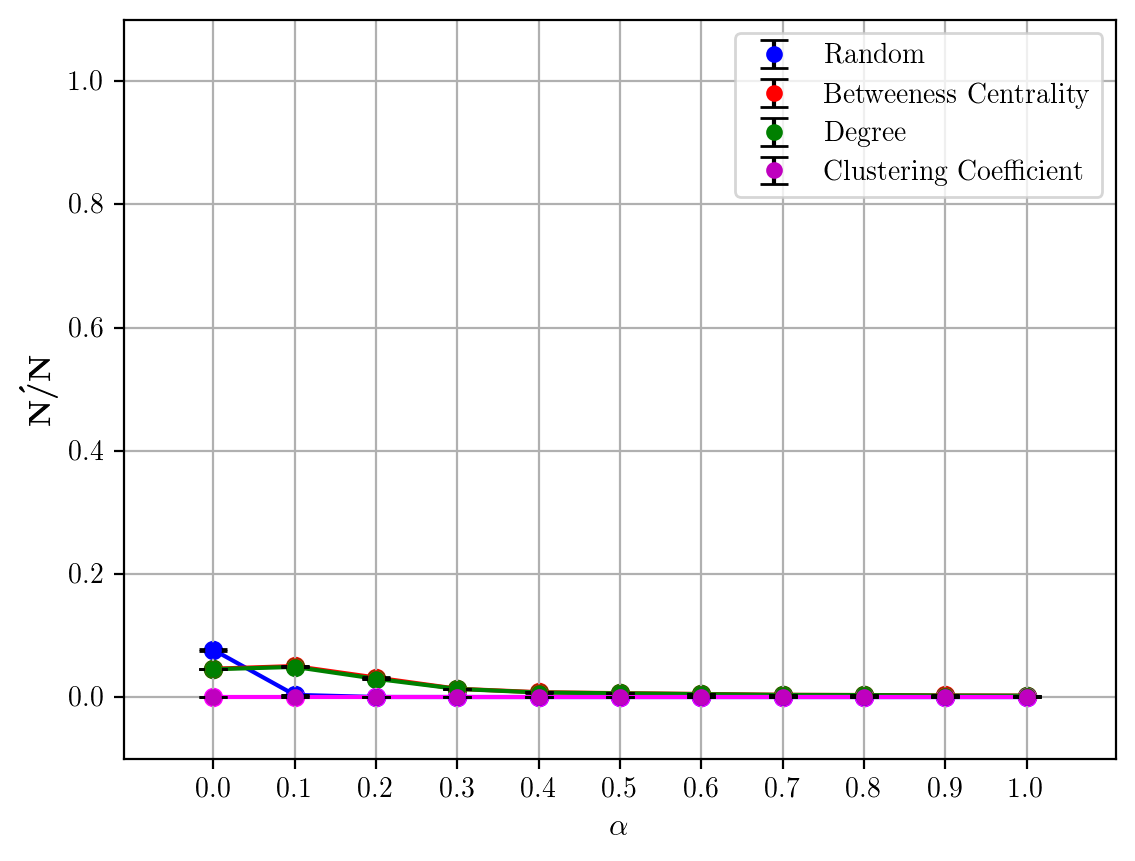
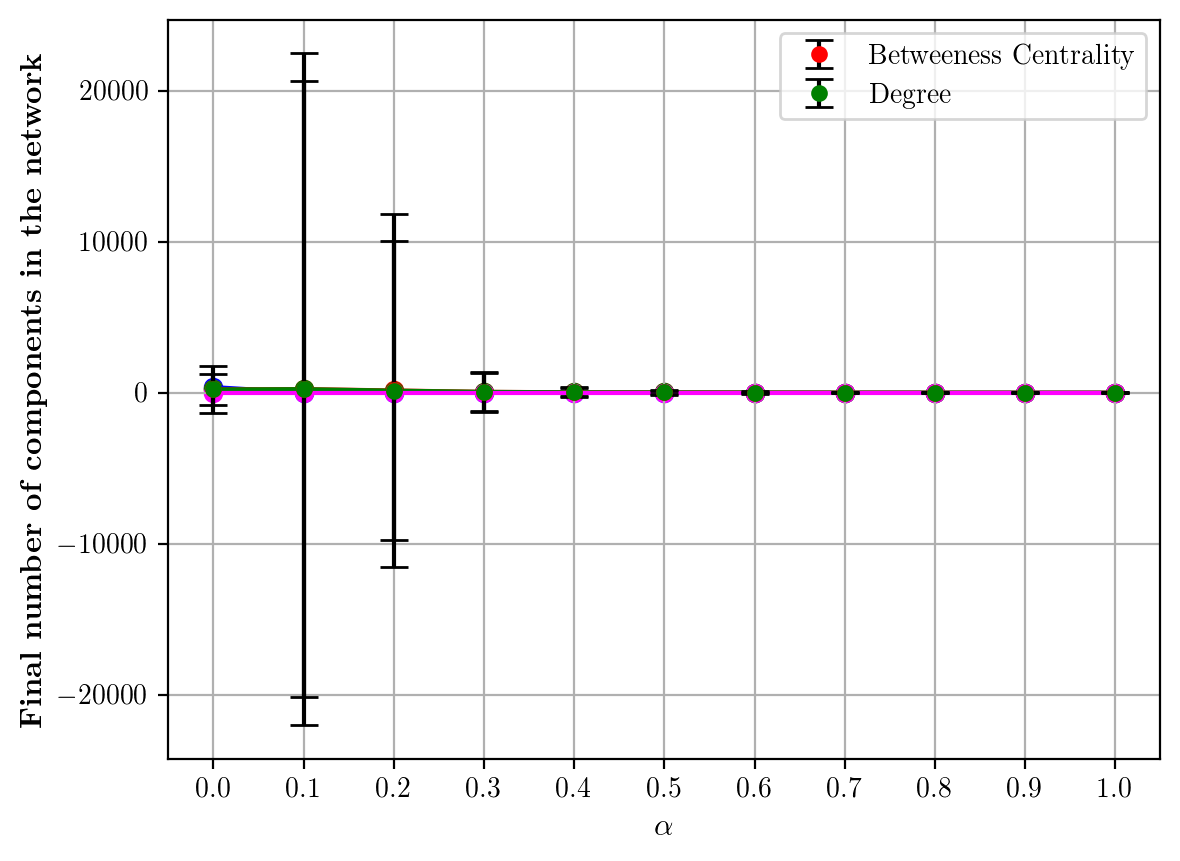
mais cenas

diff --git a/Plots/n_comp_nodes.py b/Plots/n_comp_nodes.py
@@ -44,8 +44,6 @@ for net in range(N_GRAPHS):
 			l_it += 1
 			a_it[a] += 1
 
-n_comp_rand = n_comp_rand / N
-
 for a in range(len(alphas)):
 	n_comp_avg_rand[a] = np.mean(n_comp_rand[a])
 	n_comp_var_rand[a] = np.var(n_comp_rand[a])
@@ -73,8 +71,6 @@ for net in range(N_GRAPHS):
 			n_comp_bc[a][a_it[a]] = float(lines[7+6*l_it].split()[1])
 			l_it += 1
 			a_it[a] += 1
-
-n_comp_bc = n_comp_bc / N
 
 for a in range(len(alphas)):
 	n_comp_avg_bc[a] = np.mean(n_comp_bc[a])
@@ -104,8 +100,6 @@ for net in range(N_GRAPHS):
 			l_it += 1
 			a_it[a] += 1
 
-n_comp_dg = n_comp_dg / N
-
 for a in range(len(alphas)):
 	n_comp_avg_dg[a] = np.mean(n_comp_dg[a])
 	n_comp_var_dg[a] = np.var(n_comp_dg[a])
@@ -134,8 +128,6 @@ for net in range(N_GRAPHS):
 			l_it += 1
 			a_it[a] += 1
 
-n_comp_cl = n_comp_cl / N
-
 for a in range(len(alphas)):
 	n_comp_avg_cl[a] = np.mean(n_comp_cl[a])
 	n_comp_var_cl[a] = np.var(n_comp_cl[a])
@@ -155,18 +147,18 @@ plt.plot(alphas, n_comp_avg_bc, color="red")
 plt.plot(alphas, n_comp_avg_dg, color="green")
 plt.plot(alphas, n_comp_avg_cl, color="magenta")
 
-plt.errorbar(alphas, n_comp_avg_rand, n_comp_var_rand, fmt='bo', markersize=5, capsize=5, ecolor="black", label="Random")
-plt.errorbar(alphas, n_comp_avg_bc, n_comp_var_bc, fmt='ro', markersize=5, capsize=5, ecolor="black", label="Betweeness Centrality")
-plt.errorbar(alphas, n_comp_avg_dg, n_comp_var_dg, fmt='go', markersize=5, capsize=5, ecolor="black", label="Degree")
-plt.errorbar(alphas, n_comp_avg_cl, n_comp_var_cl, fmt='mo', markersize=5, capsize=5, ecolor="black", label="Clustering Coefficient")
+# plt.errorbar(alphas, n_comp_avg_rand, n_comp_var_rand, fmt='bo', markersize=5, capsize=5, ecolor="black", label="Random")
+# plt.errorbar(alphas, n_comp_avg_bc, n_comp_var_bc, fmt='ro', markersize=5, capsize=5, ecolor="black", label="Betweeness Centrality")
+# plt.errorbar(alphas, n_comp_avg_dg, n_comp_var_dg, fmt='go', markersize=5, capsize=5, ecolor="black", label="Degree")
+# plt.errorbar(alphas, n_comp_avg_cl, n_comp_var_cl, fmt='mo', markersize=5, capsize=5, ecolor="black", label="Clustering Coefficient")
 
-plt.xlim((-1.1, 11.1))
-plt.ylim((-0.1, 1.1))
+# plt.xlim((-1.1, 11.1))
+# plt.ylim((-0.1, 1.1))
 
 plt.grid()
 plt.legend()
 plt.xlabel(r'\textbf{$\alpha$}', fontsize=11)
-plt.ylabel(r'\textbf{N\'/N}', fontsize=11)
+plt.ylabel(r'\textbf{Final number of components in the network}', fontsize=11)
 
 plt.show()
 

diff --git a/Plots/apl_nodes.py b/Plots/apl_nodes.py
@@ -40,11 +40,10 @@ l_it = 0
 for net in range(N_GRAPHS):
 	for a in range(len(alphas)):
 		for it in range(IT):
-			unc_pairs_sizes_rand[a][a_it[a]] = float(lines[10+6*l_it].split()[1])
+			temp_n = N - np.sum([int(i) for i in lines[5+6*l_it].split()[1:]])
+			unc_pairs_sizes_rand[a][a_it[a]] = float(lines[10+6*l_it].split()[1]) / temp_n / (temp_n-1) * 2
 			l_it += 1
 			a_it[a] += 1
-
-unc_pairs_sizes_rand = unc_pairs_sizes_rand / (N*(N-1)/2)
 
 for a in range(len(alphas)):
 	unc_pairs_avg_rand[a] = np.mean(unc_pairs_sizes_rand[a])
@@ -70,11 +69,10 @@ l_it = 0
 for net in range(N_GRAPHS):
 	for a in range(len(alphas)):
 		for it in range(IT):
-			unc_pairs_sizes_bc[a][a_it[a]] = float(lines[10+6*l_it].split()[1])
+			temp_n = N - np.sum([int(i) for i in lines[5+6*l_it].split()[1:]])
+			unc_pairs_sizes_bc[a][a_it[a]] = float(lines[10+6*l_it].split()[1]) / temp_n / (temp_n-1) * 2
 			l_it += 1
 			a_it[a] += 1
-
-unc_pairs_sizes_bc = unc_pairs_sizes_bc / (N*(N-1)/2)
 
 for a in range(len(alphas)):
 	unc_pairs_avg_bc[a] = np.mean(unc_pairs_sizes_bc[a])
@@ -100,11 +98,10 @@ l_it = 0
 for net in range(N_GRAPHS):
 	for a in range(len(alphas)):
 		for it in range(IT):
-			unc_pairs_sizes_dg[a][a_it[a]] = float(lines[10+6*l_it].split()[1])
+			temp_n = N - np.sum([int(i) for i in lines[5+6*l_it].split()[1:]])
+			unc_pairs_sizes_dg[a][a_it[a]] = float(lines[10+6*l_it].split()[1]) / temp_n / (temp_n-1) * 2
 			l_it += 1
 			a_it[a] += 1
-
-unc_pairs_sizes_dg = unc_pairs_sizes_dg / (N*(N-1)/2)
 
 for a in range(len(alphas)):
 	unc_pairs_avg_dg[a] = np.mean(unc_pairs_sizes_dg[a])
@@ -130,11 +127,10 @@ l_it = 0
 for net in range(N_GRAPHS):
 	for a in range(len(alphas)):
 		for it in range(IT):
-			unc_pairs_sizes_cl[a][a_it[a]] = float(lines[10+6*l_it].split()[1])
+			temp_n = N - np.sum([int(i) for i in lines[5+6*l_it].split()[1:]])
+			unc_pairs_sizes_cl[a][a_it[a]] = float(lines[10+6*l_it].split()[1]) / temp_n / (temp_n-1) * 2
 			l_it += 1
 			a_it[a] += 1
-
-unc_pairs_sizes_cl = unc_pairs_sizes_cl / (N*(N-1)/2)
 
 for a in range(len(alphas)):
 	unc_pairs_avg_cl[a] = np.mean(unc_pairs_sizes_cl[a])
